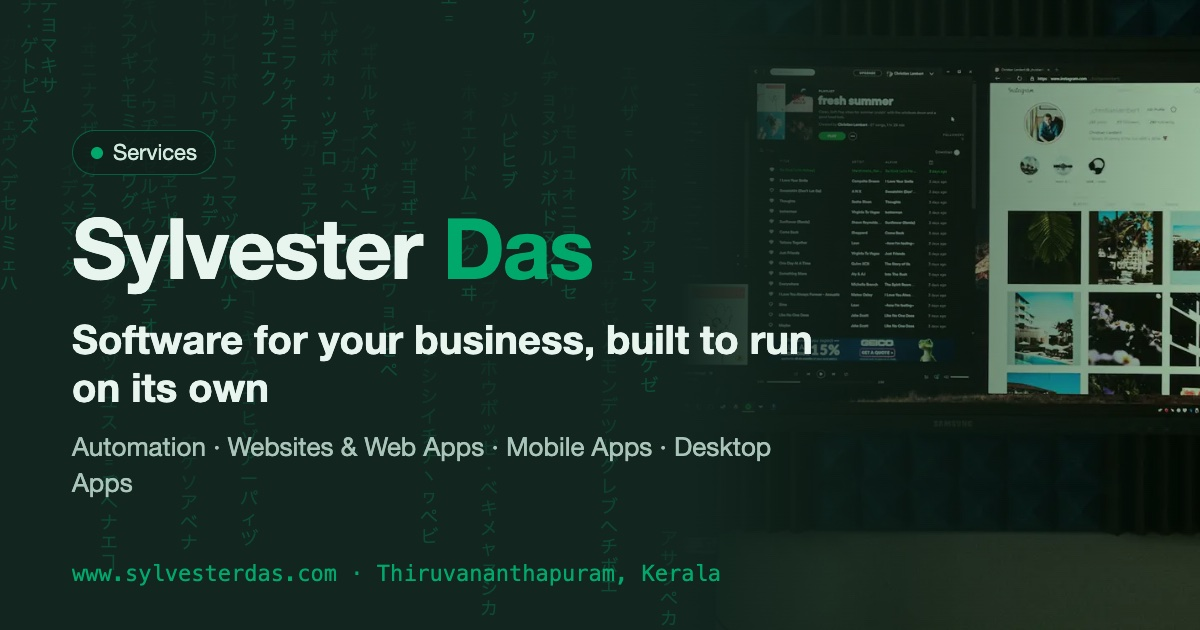
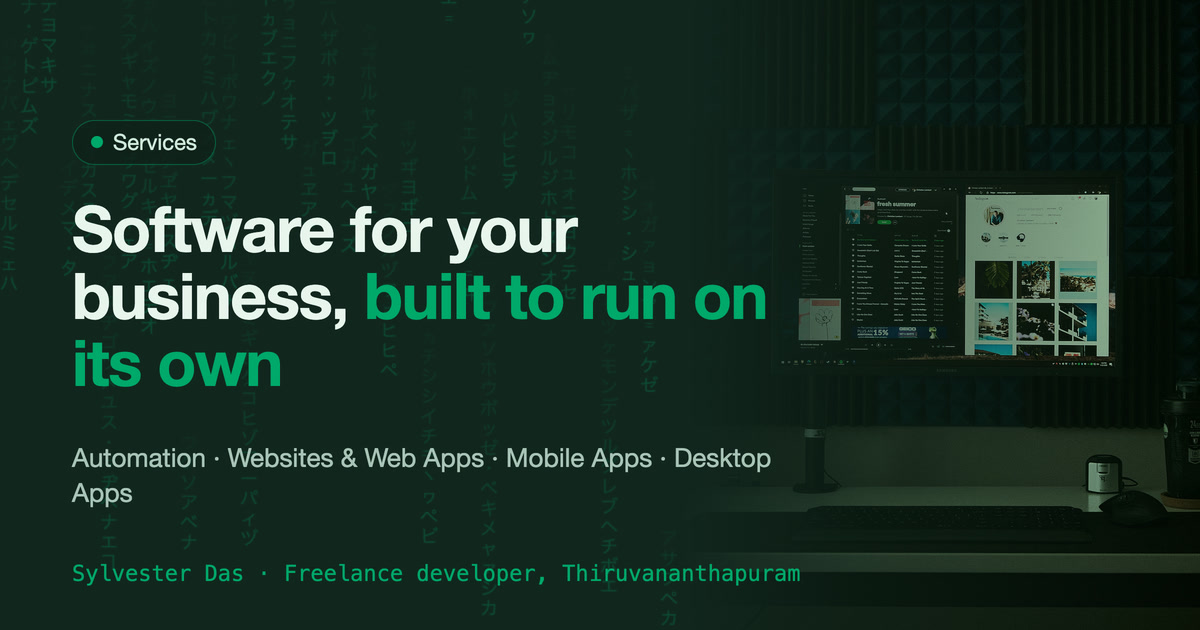
feat: lead with the value proposition instead of the name
Hero and share images now headline what clients get, with the name as a byline.
Adds author metadata and sharper service share images.

diff --git a/src/components/sections/Hero.js b/src/components/sections/Hero.js
@@ -30,14 +30,17 @@ export default function Hero() {
             Available for freelance projects
           </div>
 
-          <h1 className="text-6xl md:text-7xl xl:text-8xl font-bold mb-6 tracking-tight">
-            <span className="text-text">Sylvester </span>
-            <span className="text-accent">Das</span>
+          <h1 className="text-4xl md:text-6xl xl:text-7xl font-bold mb-6 tracking-tight leading-[1.05] text-text">
+            Custom software that saves your business <span className="text-accent">hours every week</span>
           </h1>
 
-          <p className="text-lg md:text-xl text-text-muted mb-10 max-w-xl mx-auto lg:mx-0">
-            Freelance software developer with {contact.yearsExperience} years of experience.
-            I build automation, web apps, Flutter mobile apps and Electron desktop apps.
+          <p className="text-lg md:text-xl text-text-muted mb-4 max-w-xl mx-auto lg:mx-0">
+            Automation, websites and web apps, Flutter mobile apps and Electron desktop apps.
+            Fixed quotes, and you own the code.
+          </p>
+
+          <p className="text-sm md:text-base text-text-muted mb-10 font-mono">
+            <span className="text-accent">Sylvester Das</span> · <span className="whitespace-nowrap">developer in {contact.locality}</span> · <span className="whitespace-nowrap">{contact.yearsExperience} years</span>
           </p>
 
           <motion.div

diff --git a/src/config/seo.js b/src/config/seo.js
@@ -9,7 +9,7 @@ export const siteConfig = {
       type: "website",
       locale: "en_IN",
       url: siteUrl,
-      title: "Sylvester Das | Freelance Software Developer in Thiruvananthapuram",
+      title: "Custom software that saves your business hours every week | Sylvester Das",
       description: "10+ years building software. Automation, web apps, Flutter mobile apps and Electron desktop apps for businesses in Kerala, India and worldwide.",
       siteName: "Sylvester Das",
       images: [
@@ -23,7 +23,7 @@ export const siteConfig = {
     },
     twitter: {
       card: "summary_large_image",
-      title: "Sylvester Das | Freelance Software Developer in Thiruvananthapuram",
+      title: "Custom software that saves your business hours every week | Sylvester Das",
       description: "10+ years building software. Automation, web apps, Flutter mobile apps and Electron desktop apps for businesses in Kerala, India and worldwide.",
       images: ["/images/og/home.jpg"],
     }

diff --git a/src/app/layout.js b/src/app/layout.js
@@ -24,6 +24,9 @@ export const metadata = {
   },
   description: siteConfig.description,
   keywords: siteConfig.keywords,
+  authors: [{ name: 'Sylvester Das', url: siteConfig.siteUrl }],
+  creator: 'Sylvester Das',
+  publisher: 'Sylvester Das',
   openGraph: siteConfig.openGraph,
   twitter: siteConfig.twitter,
 };
